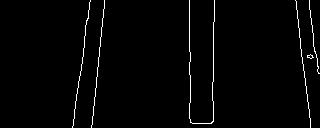
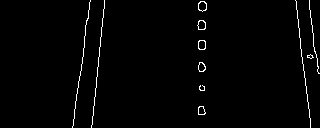
doesnt work with center line

diff --git a/MachineLearning/LaneDetection/test_layers.py b/MachineLearning/LaneDetection/test_layers.py
@@ -17,8 +17,8 @@ gaussian_kernel = (7, 7)
 # Canny edge detection thresholds
 canny_thresholds = (50, 150)
 
-# Hough Transform parameters (adjusted for dotted lines)
-hough_params = (1, np.pi/180, 30, 20, 50)  # rho, theta, threshold, minLineLength, maxLineGap
+# Hough Transform parameters
+hough_params = (1, np.pi/180, 30, 40, 20)
 
 # Region of Interest (crop top half of the image)
 roi_height_ratio = 0.6
@@ -31,10 +31,6 @@ def process_image(img):
     # Create binary masks for white and yellow lines
     white_mask = cv2.inRange(hsv, white_lower, white_upper)
     yellow_mask = cv2.inRange(hsv, yellow_lower, yellow_upper)
-    
-    # Use morphological operations to connect dotted yellow lines
-    kernel = np.ones((9, 9), np.uint8)  # Kernel size for dilation
-    yellow_mask = cv2.dilate(yellow_mask, kernel, iterations=2)  # Increase iterations to connect larger gaps
     
     # Combine masks
     combined_mask = cv2.bitwise_or(white_mask, yellow_mask)
